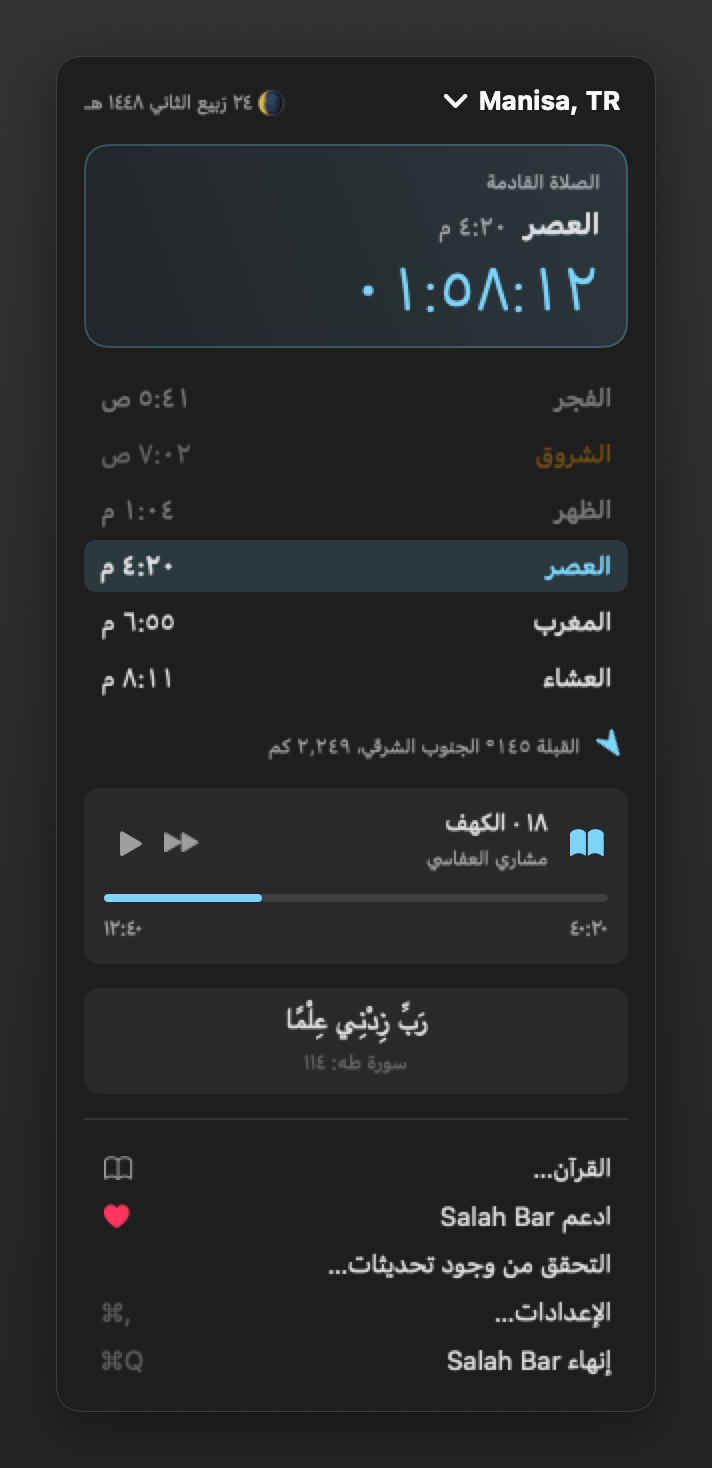
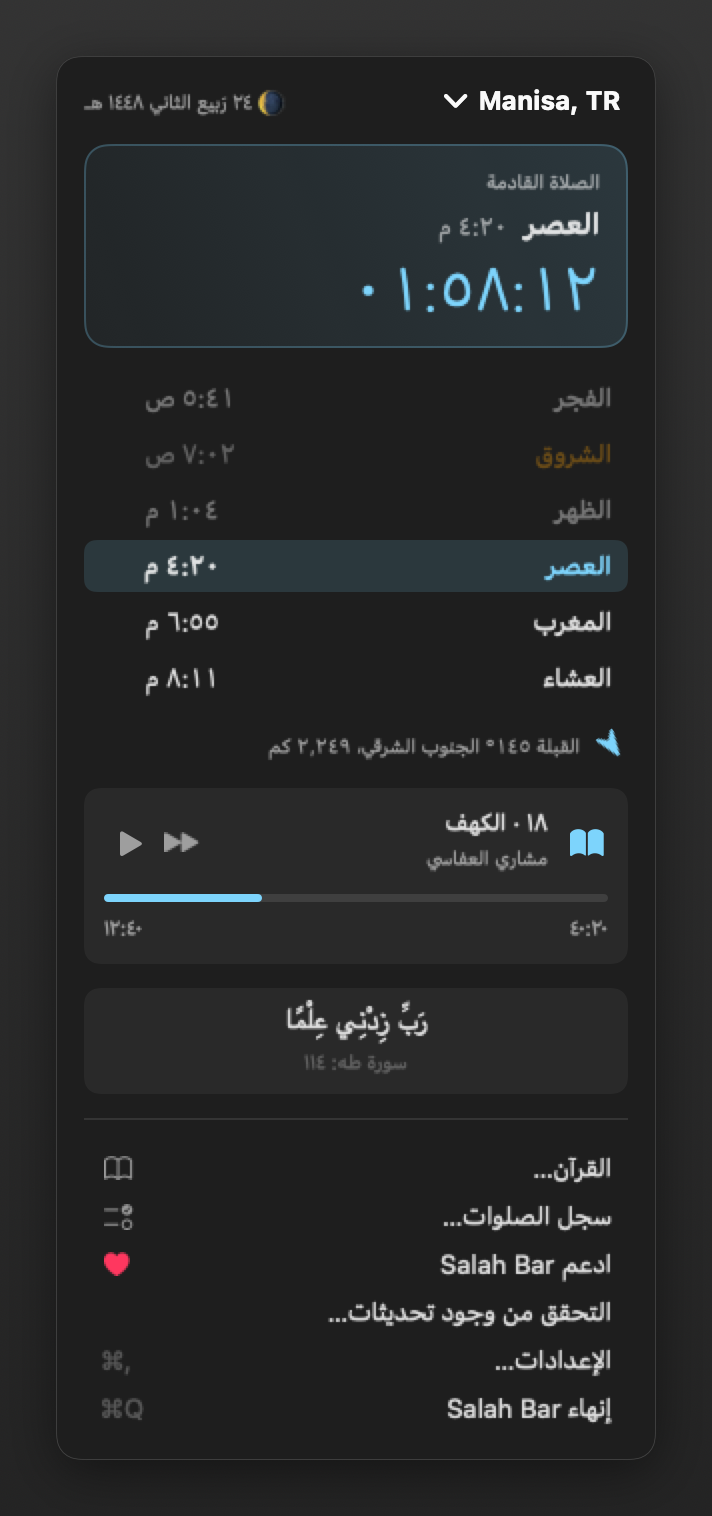
Release 2.9.0

diff --git a/README.md b/README.md
@@ -17,6 +17,12 @@ and lets you listen to the Quran from 242 reciters.
 - 📖 **Listen to the Quran**: any surah from **242 reciters**, streamed, or downloaded for offline listening (even to an external drive), with a mini-player, media keys, resume, repeat and a sleep timer ([more](#listening-to-the-quran))
 - 🤲 **Quran and adhan together**: at prayer time the recitation fades out, the adhan plays, then the recitation carries on
 - 🔔 **Reminders** before each prayer, with a **Silence** button that stops the adhan
+- 🕌 **Iqama times** for your mosque, with a countdown to the jama'ah after each adhan
+- ✅ **Prayer log**: tick off prayers, keep a streak and, if you like, count qada to make up; private, on your Mac
+- 📅 **Calendar that respects prayer**: a warning when a meeting overlaps a prayer, and optional "busy" prayer blocks
+- 🕋 **Friday and Sunnah reminders**: Al-Kahf on Fridays, Monday/Thursday and White Days fasts, the last third of the night
+- 📖 **Hifz mode**: repeat ayat with the Arabic text highlighted, to memorise
+- 🗣 **Siri and Shortcuts**: "When is Asr in Salah Bar", "Play Surah Al-Kahf in Salah Bar"
 - ⚡ **A flash you won't miss**: a green glow pulses around your screen and the menu bar icon blinks before the adhan (**Stop Flashing** when you've seen it)
 - 🖥 **Desktop widgets** in Small, Medium and Large
 - 📖 **A rotating ayah or dua**: 42 ayahs, Quranic duas and hadiths, changing every 15 minutes to once a day
@@ -319,6 +325,11 @@ search in English, Arabic or Turkish), then press ▶ next to any surah.
 - **Sleep timer:** 15 to 90 minutes, or the end of the surah, fading out gently.
 - **Favourites** for reciters and surahs.
 - **Media keys and Control Centre** work while it plays.
+- **Hifz mode**: choose an ayah range, how many times to repeat each ayah and the
+  whole range, a pause between repeats and the speed. The Arabic text follows along
+  with the current ayah highlighted. It works with the many reciters that mp3quran.net
+  publishes ayah timings for, such as Alafasy, Husary, Minshawi, Abdul Basit, Sudais
+  and Ghamdi. Text from [Tanzil.net](https://tanzil.net).
 - **At prayer time** the recitation fades out, the adhan plays, then the
   recitation carries on. In **Settings → Quran** you can instead keep it paused
   after the adhan, or keep listening with no adhan.
@@ -328,6 +339,27 @@ Recitations are from [mp3quran.net](https://mp3quran.net).
 | Arabic, dark | Settings → Quran |
 |---|---|
 | ![The Quran window in Arabic](assets/screenshots/quran-ar-dark.png) | ![Quran settings](assets/screenshots/settings-quran-en.png) |
+
+### More for every prayer
+
+- **Iqama times** (Settings → Calculation → Iqama): set each prayer's iqama as minutes
+  after the adhan or a fixed time, plus a separate Jumu'ah time. The panel counts
+  down to the iqama after each adhan, and can remind you before it.
+- **Prayer log**: in the panel, click the circle next to a prayer once its time has
+  begun (or press **Prayed ✓** on the prayer's notification). **Prayer Log…** shows
+  your streak and the last 7 or 30 days. Turn on **Count missed prayers as qada** to
+  keep a count of prayers to make up. Everything stays on your Mac.
+- **Calendar** (Settings → General → Calendar, off by default): Salah Bar warns you
+  when a meeting overlaps a prayer, e.g. *"Your 13:00 meeting overlaps Dhuhr (13:04)"*,
+  and can add short busy "Dhuhr", "Asr"… blocks to a calendar you choose. It only
+  ever changes the blocks it made.
+- **Friday and Sunnah reminders** (Settings → Notifications): on Fridays, a reminder
+  to read Al-Kahf with a button to play it; optional reminders the evening before
+  Monday, Thursday and White Days (13–15) fasts, and for the last third of the night.
+- **Pause other audio during the adhan**: music or a video in another app pauses
+  while the adhan plays, then carries on.
+- **Siri and Shortcuts**: ask *"When is Asr in Salah Bar"*, *"Next prayer in Salah
+  Bar"* or *"Play Surah Al-Kahf in Salah Bar"*, or use the actions in Shortcuts.
 
 ### Desktop widgets
 

diff --git a/THIRD_PARTY_NOTICES.md b/THIRD_PARTY_NOTICES.md
@@ -21,9 +21,16 @@ the **GNU Lesser General Public License v3.0**
 for those versions.
 
 ## The Quran text
-The Arabic of the Quranic quotes added in Salah Bar is from the **Tanzil Quran Text** (quran-simple),
-Copyright (c) 2007–2026 Tanzil Project, https://tanzil.net, used verbatim
-under its terms of use.
+The Arabic of the Quranic quotes added in Salah Bar, and the full Quran text
+shown in the Quran player's Hifz (memorisation) mode
+(`app/SalahBar/Resources/quran-text.json`, made by `scripts/gen-quran-text.py`),
+is from the **Tanzil Quran Text** (quran-simple, version 1.1),
+Copyright (c) 2007–2026 Tanzil Project, https://tanzil.net, licensed under
+Creative Commons Attribution 3.0 and used verbatim under its terms of use:
+the text is not changed, its source is credited with a link to tanzil.net in
+the Hifz view ("Text: Tanzil.net"), and Tanzil's copyright notice is kept in
+the bundled file. Ayah timings for Hifz mode come from mp3quran.net's API
+(see below).
 
 ## Translations
 English quotes use **Sahih International**; Turkish quotes use the
